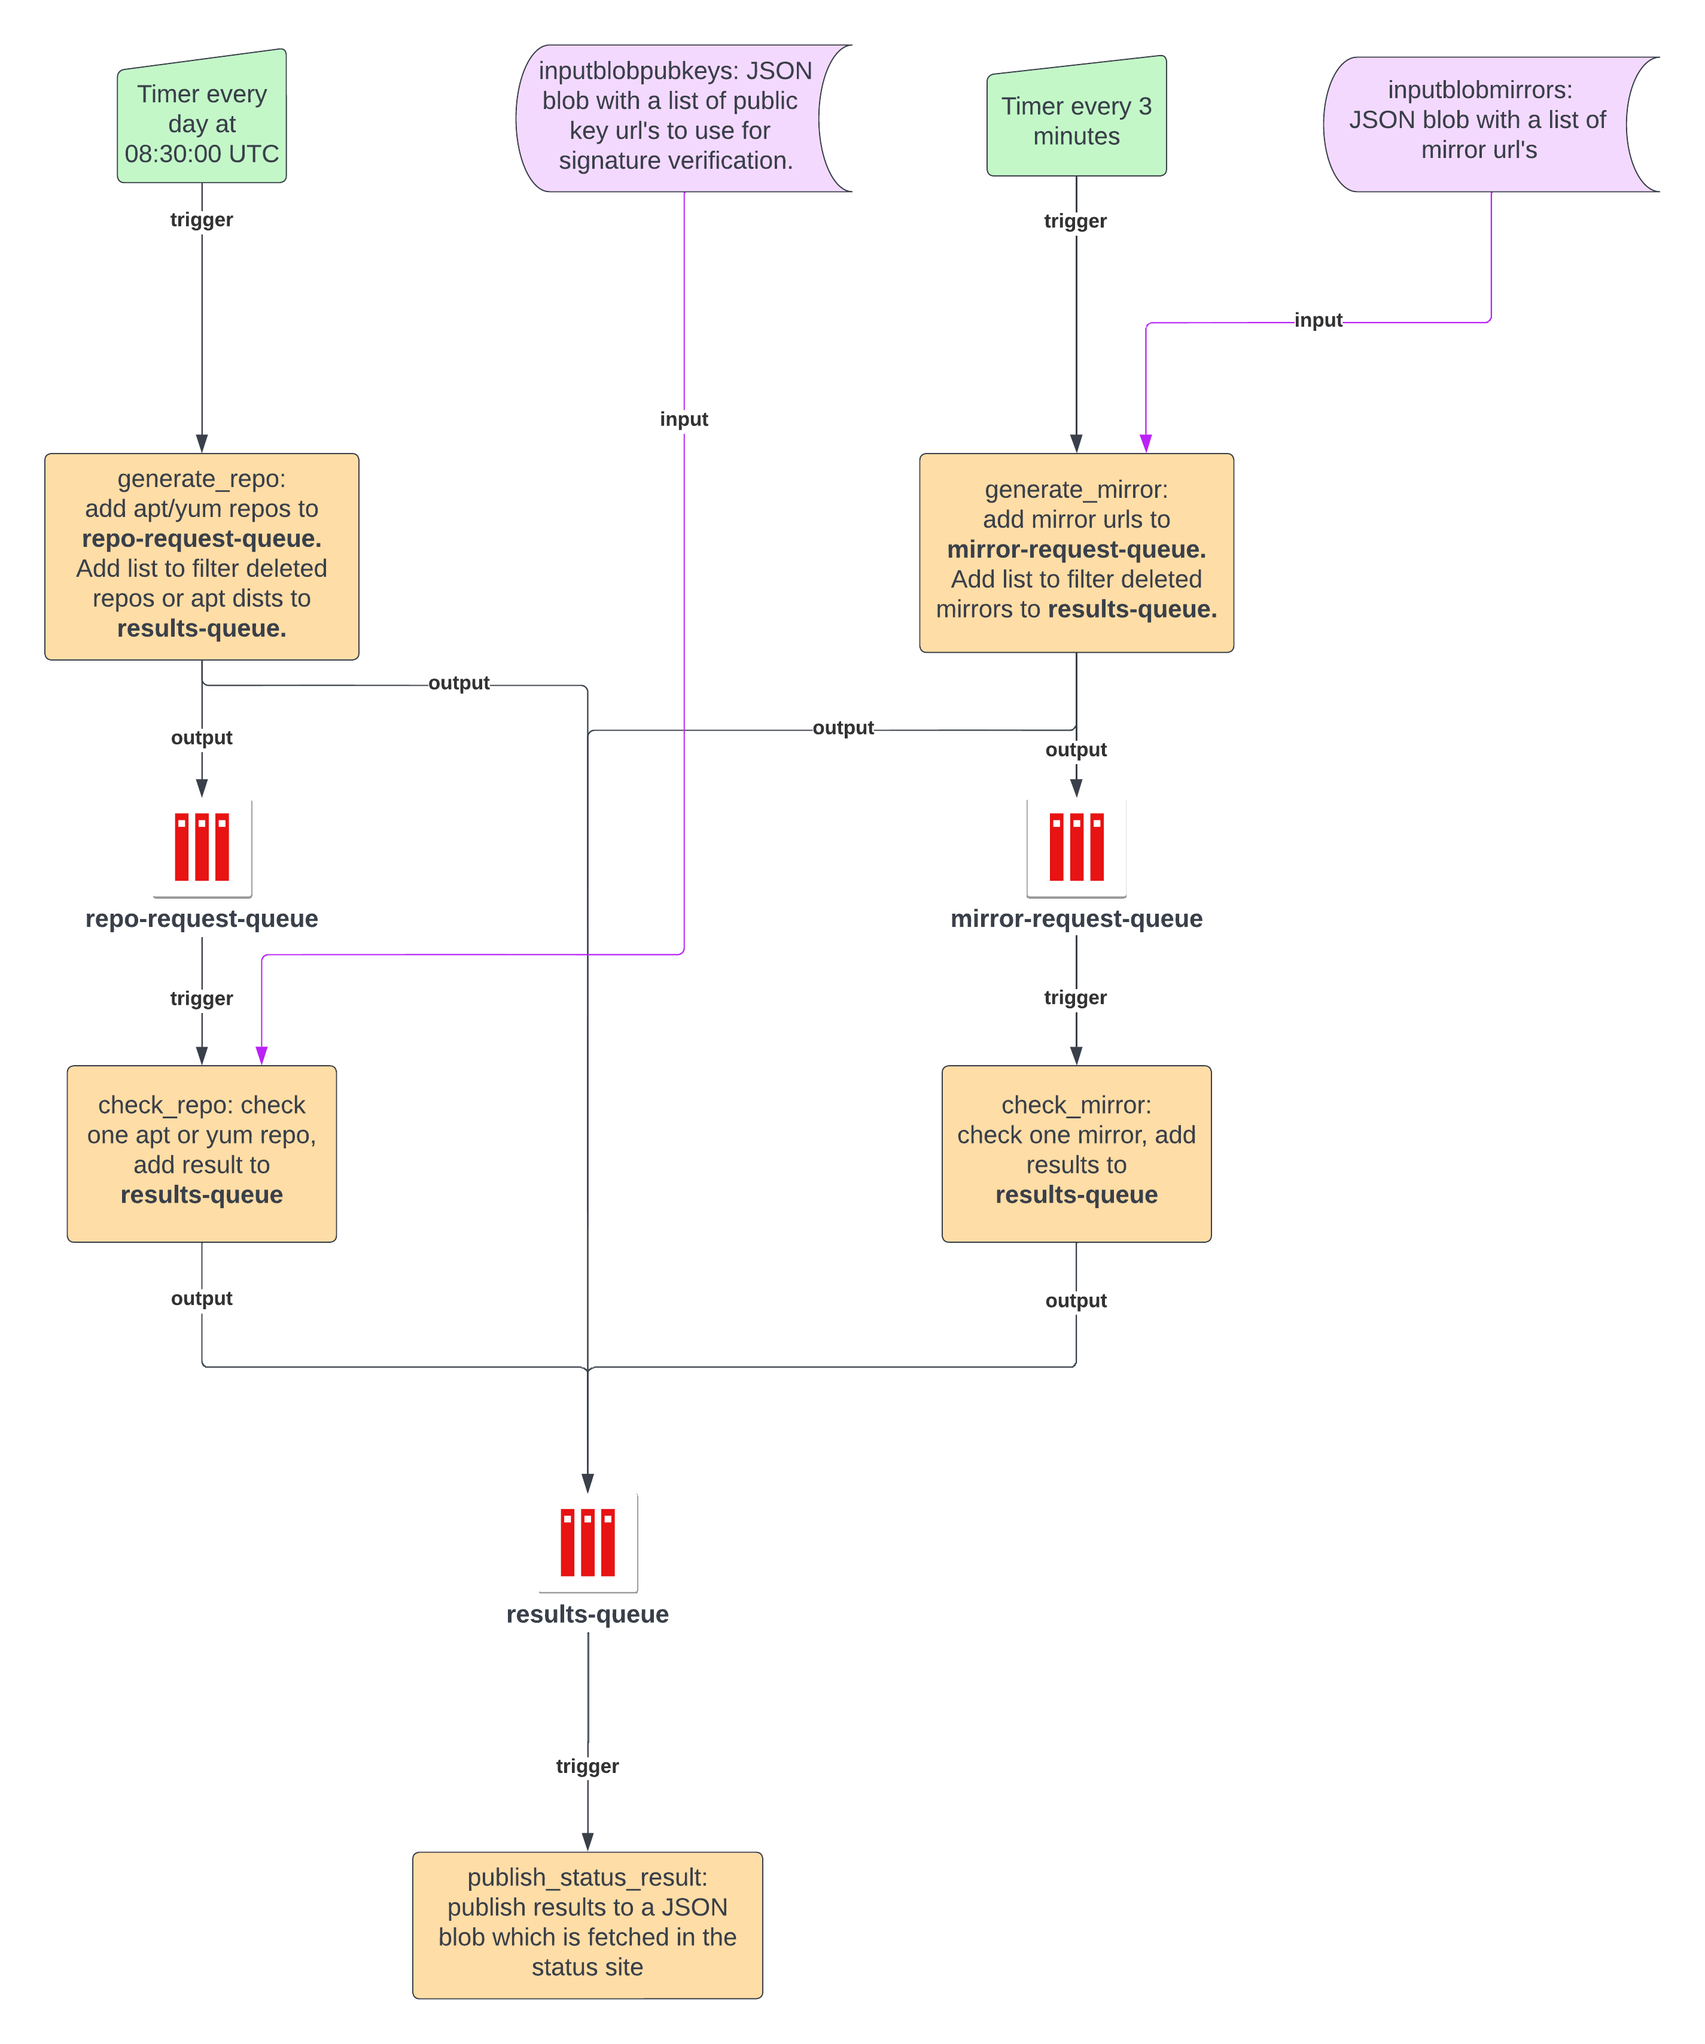
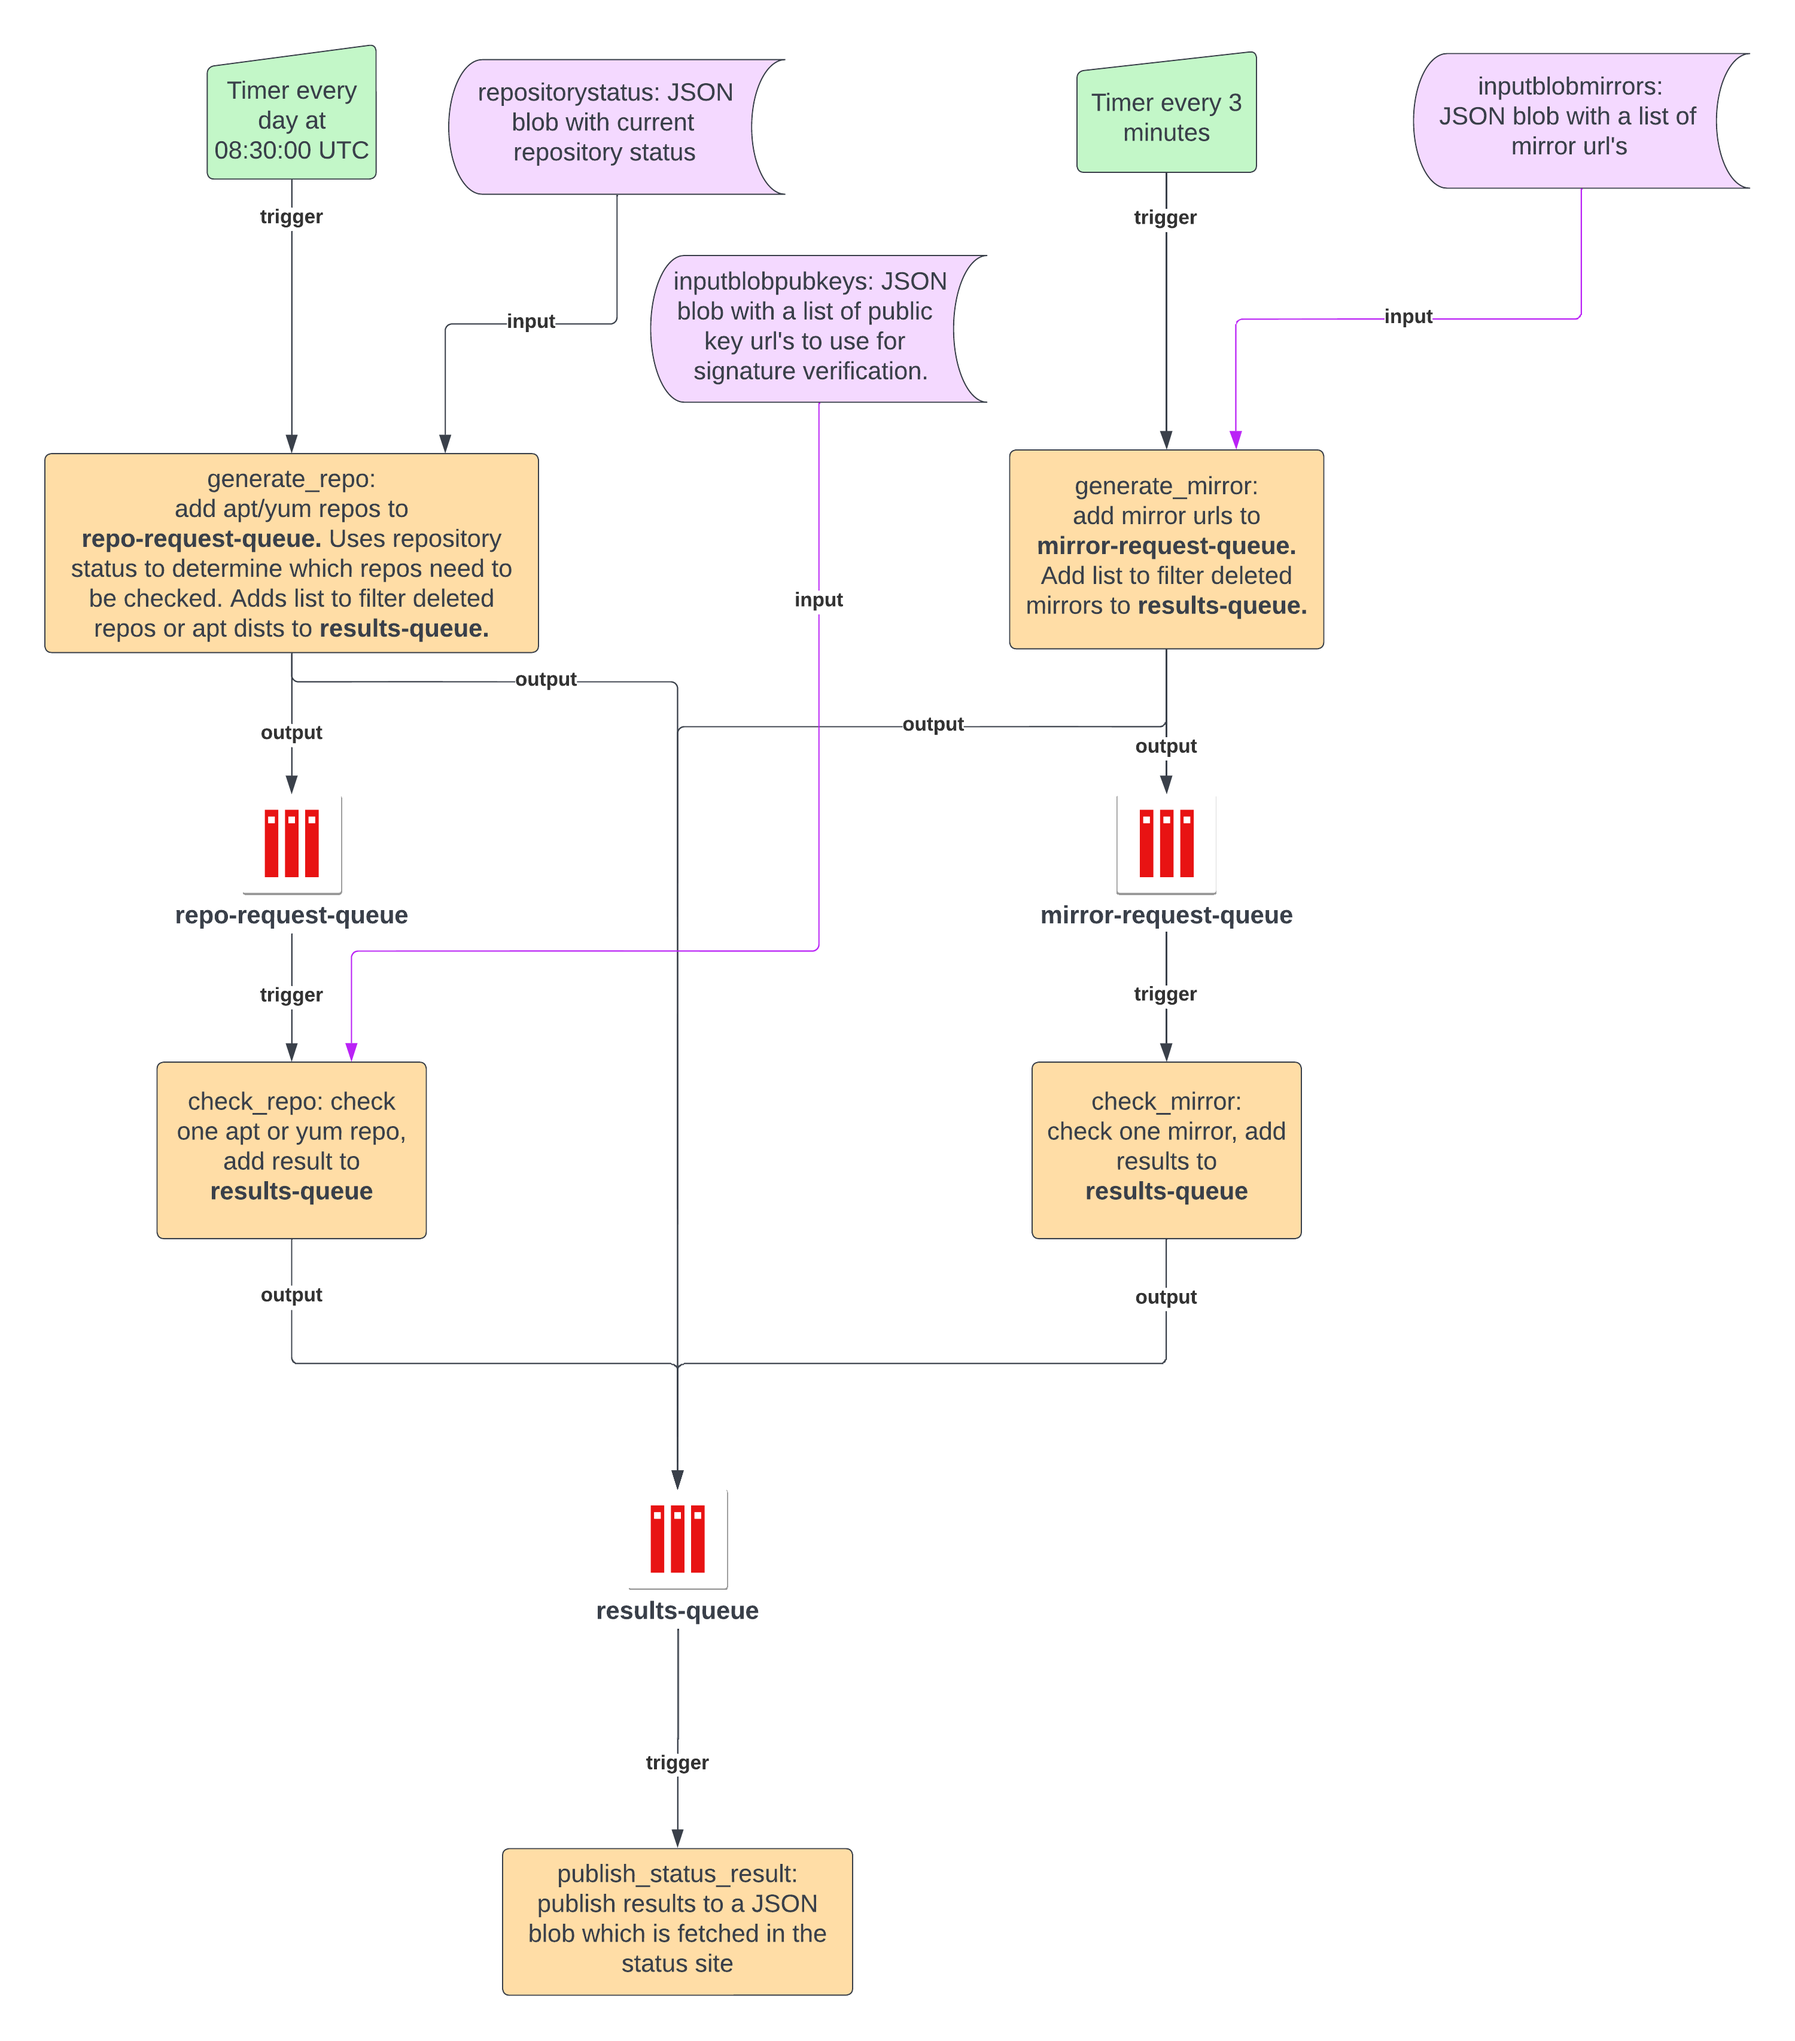
Merged PR 6556987: Check repositories only when they have changed
A repository/dist is checked if it meets the following criteria:
- It is empty
- It hasn't been checked for 28 days
- The metadata has changed since it was last changed

diff --git a/status/functions/pmc_scan_repos/shared_code/utils.py b/status/functions/pmc_scan_repos/shared_code/utils.py
@@ -1,4 +1,5 @@
 from contextlib import contextmanager
+from datetime import datetime, timedelta
 import json
 import logging
 from pathlib import Path
@@ -8,7 +9,10 @@ from typing import List, Optional, Tuple
 import azure.functions as func
 from repoaudit.utils import destroy_gpg, initialize_gpg, RepoErrors
 from repoaudit.apt import _find_dists
+import requests
 from requests.exceptions import HTTPError
+from requests.adapters import HTTPAdapter
+from urllib3.util.retry import Retry
 
 TRUSTED_CA = '''
 # Issuer: CN=DigiCert Global Root G2 O=DigiCert Inc OU=www.digicert.com
@@ -131,6 +135,126 @@ def get_repo_from_msg(msg: func.QueueMessage) -> Tuple[str, str]:
     return type, repo
 
 
+def check_date(
+    file_url: str,
+    last_checked: Optional[datetime],
+    hours_until_recheck: int = 672,  # 4 weeks between full re-scans
+    shift_last_checked: int = -4
+) -> bool:
+    """
+    Returns True if a metadata file's last modified time indicates a repository
+    should be checked, False otherwise.
+    """
+    if last_checked is None:
+        return True
+
+    # Shift last_checked time to account for updates occurring during the check.
+    # At the moment, last_checked represents the end time of the status check
+    # which could theoretically take up to 4 hours (the timeout of the function).
+    last_checked = last_checked + timedelta(hours=shift_last_checked)
+
+    # re-scan if repository is empty
+    try:
+        response = request_headers(file_url)
+    except HTTPError:
+        return True
+
+    last_modified_str = response.headers.get('Last-Modified', None)
+
+    if not last_modified_str:
+        return True
+
+    try:
+        last_modified = datetime.strptime(last_modified_str, '%a, %d %b %Y %H:%M:%S %Z')
+    except ValueError:
+        logging.warning(
+            f"Could not parse Last-Modified header for '{file_url}': '{last_modified_str}'"
+        )
+        return True
+
+    time_now = datetime.utcnow()
+
+    # re-scan if repository status is stale
+    hours_since_last_check = (time_now-last_checked).total_seconds() // 3600
+    if hours_since_last_check >= hours_until_recheck:
+        return True
+
+    # re-scan if changes have been made since the last check
+    if last_modified >= last_checked:
+        return True
+
+    return False
+
+
+def get_datetime(
+    repo_type: str,
+    repo: str,
+    dist: str,
+    current_status: dict
+) -> Optional[datetime]:
+    """Construct datetime object representing last updated time for a repo and dist."""
+    try:
+        time_str = current_status[repo_type][repo]["dists"][dist]["time"]
+    except (TypeError, KeyError):
+        return None
+
+    try:
+        date = datetime.fromisoformat(time_str)
+    except ValueError:
+        logging.warning(
+            f"Could not parse time for {repo_type} repo {repo} at dist {dist} : '{time_str}'"
+        )
+        return None
+
+    return date
+
+
+def repo_needs_status_update(
+    repo_type: str,
+    repo_url: str,
+    current_status: dict,
+    dists: List[str] = None
+) -> bool:
+    """
+    Check if apt or yum repo/dist needs a status update based on the last time it
+    was checked according to the current_status which is intended to be the same as
+    the current repository_status.json.
+    """
+    assert repo_type == "apt" or repo_type == "yum"
+
+    if repo_type == "apt":
+        if not dists:
+            return True
+
+        for dist in dists:
+            release_url = urljoin(repo_url, "dists", dist, "Release")
+            last_checked = get_datetime(repo_type, repo_url, dist, current_status)
+            if check_date(release_url, last_checked):
+                return True
+    else:
+        repomd_url = urljoin(repo_url, "repodata", "repomd.xml")
+        last_checked = get_datetime(repo_type, repo_url, RepoErrors.YUM_DIST, current_status)
+        if check_date(repomd_url, last_checked):
+            return True
+
+    return False
+
+
+def check_and_add_task(task: dict, tasks: list, current_status: dict) -> bool:
+    """
+    Add an apt or yum task to the tasks list only if the repo/dist
+    status in current_status is out of date or stale.
+    """
+    repo_type = task.get("type", None)
+    repo = task.get("repo", None)
+    assert repo_type is not None and repo is not None
+
+    dists = task.get("dists", None)
+
+    if repo_needs_status_update(repo_type, repo, current_status, dists=dists):
+        tasks.append(json.dumps(task))
+
+
 def get_dists_from_msg(msg: func.QueueMessage) -> Optional[List[str]]:
     """Get dists from msg."""
     message_json = json.loads(msg.get_body().decode('utf-8'))
@@ -146,3 +270,32 @@ def get_status_msg(status: dict, status_type: str) -> str:
     """Get the status message to add to the results-queue."""
     output = {"status_type": status_type, "status": status}
     return json.dumps(output, indent=4)
+
+
+def urljoin(*paths: str) -> str:
+    """Join together a set of url components."""
+    # urllib's urljoin has a few gotchas and doesn't handle multiple paths
+    return "/".join(map(lambda path: path.strip("/"), paths))
+
+
+def retry_session(retries: int = 3) -> requests.Session:
+    """Create a requests.Session with retries."""
+    session = requests.Session()
+    retry = Retry(total=retries)
+    adapter = HTTPAdapter(max_retries=retry)
+    session.mount("http://", adapter)
+    session.mount("https://", adapter)
+    return session
+
+
+def request_headers(
+    url: str,
+    session: Optional[requests.Session] = None,
+    verify: Optional[str] = None
+) -> requests.Response:
+    """Call requests.head() on a url and return the requests.Response."""
+    if not session:
+        session = retry_session()
+    resp = session.head(url, verify=verify)
+    resp.raise_for_status()
+    return resp

diff --git a/status/functions/pmc_scan_repos/generate_repo/__init__.py b/status/functions/pmc_scan_repos/generate_repo/__init__.py
@@ -4,21 +4,27 @@ import logging
 import more_itertools
 
 import azure.functions as func
-from shared_code.utils import get_status_msg, load_ca, get_apt_filter, get_yum_filter
+from shared_code.utils import (get_status_msg, load_ca, get_apt_filter, get_yum_filter,
+                               check_and_add_task)
 from repoaudit.utils import get_repo_urls
 
 
 def main(
     mytimer: func.TimerRequest,
+    repositorystatus: str,
     msg: func.Out[func.QueueMessage],
     msgresultsqueue: func.Out[func.QueueMessage]
 ) -> None:
     """
     Azure function that generates a list of apt and yum repositories and adds them to
     repo-request-queue to be checked by check_repo. Apt repositories are further
-    divided by distribution. Also adds two filter list, for apt and yum repos, to the
-    results-queue to filter deleted repos.
+    divided by distribution. Only repos/dists that have been recently updated or have
+    stale status are queued to be checked. Also adds two filter lists, for apt and
+    yum repos, to the results-queue to filter deleted repos.
     """
+
+    current_status = json.loads(repositorystatus)
+
     utc_timestamp = datetime.datetime.utcnow().replace(
         tzinfo=datetime.timezone.utc).isoformat()
 
@@ -39,16 +45,16 @@ def main(
         if dists:
             for dist in dists:
                 task = {"type": "apt", "repo": repo, "dists": [dist]}
-                apt_tasks.append(json.dumps(task))
+                check_and_add_task(task, apt_tasks, current_status)
         else:
             task = {"type": "apt", "repo": repo}
-            apt_tasks.append(json.dumps(task))
+            check_and_add_task(task, apt_tasks, current_status)
 
     # add yum repos to check
     yum_tasks = []
     for repo in yum_urls:
         task = {"type": "yum", "repo": repo}
-        yum_tasks.append(json.dumps(task))
+        check_and_add_task(task, apt_tasks, current_status)
 
     tasks = list(more_itertools.roundrobin(apt_tasks, yum_tasks))
 

diff --git a/status/functions/pmc_scan_repos/README.md b/status/functions/pmc_scan_repos/README.md
@@ -6,11 +6,13 @@ Scans all apt and yum repositories and is triggered by a timer once a day. Resul
 
 ## Function details
 ### generate_repo
-Scans [packages.microsoft.com](https://packages.microsoft.com) for a list of apt and yum repositories and adds them to repo-request-queue for them to be checked by **check_repo**. Apt repositories are added to to the queue with a "dist" field specifying one dist to check per **check_repo** function call. Filters of apt and yum repositories are also added to the results-queue to handle deleted repositories or apt dists. 
+Scans [packages.microsoft.com](https://packages.microsoft.com) for a list of apt and yum repositories and adds them to repo-request-queue for them to be checked by **check_repo**. Apt repositories are added to to the queue with a "dist" field specifying one dist to check per **check_repo** function call. The current repository status is used to determine which repos/dists to re-check based on the last time they were last checked. Filters of apt and yum repositories are also added to the results-queue to handle deleted repositories or apt dists. 
 
 - **trigger**: Timer everyday at 8:30:00 am UTC (1:30 am PST)
 
-- **inputs**: None
+- **inputs**:
+
+    repositorystatus - JSON blob with the current status of all repositories used to determine whether a repository needs to be checked again or not. This input is set as `dynamic-public-data/repository_status.json` which is the same blob that is updated by pmc_status_delivery. 
 
 - **outputs**:
 
